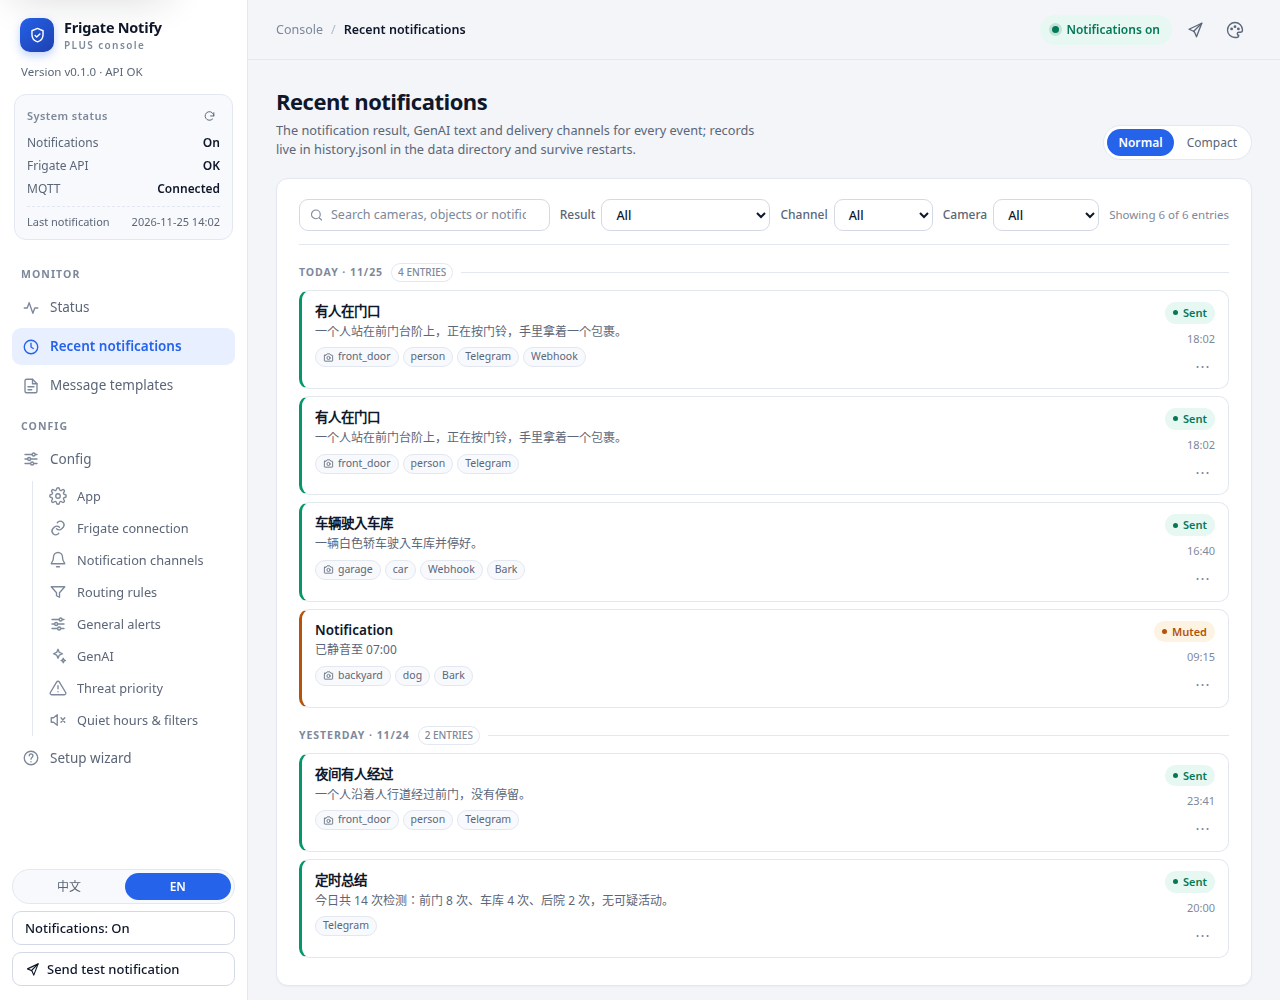
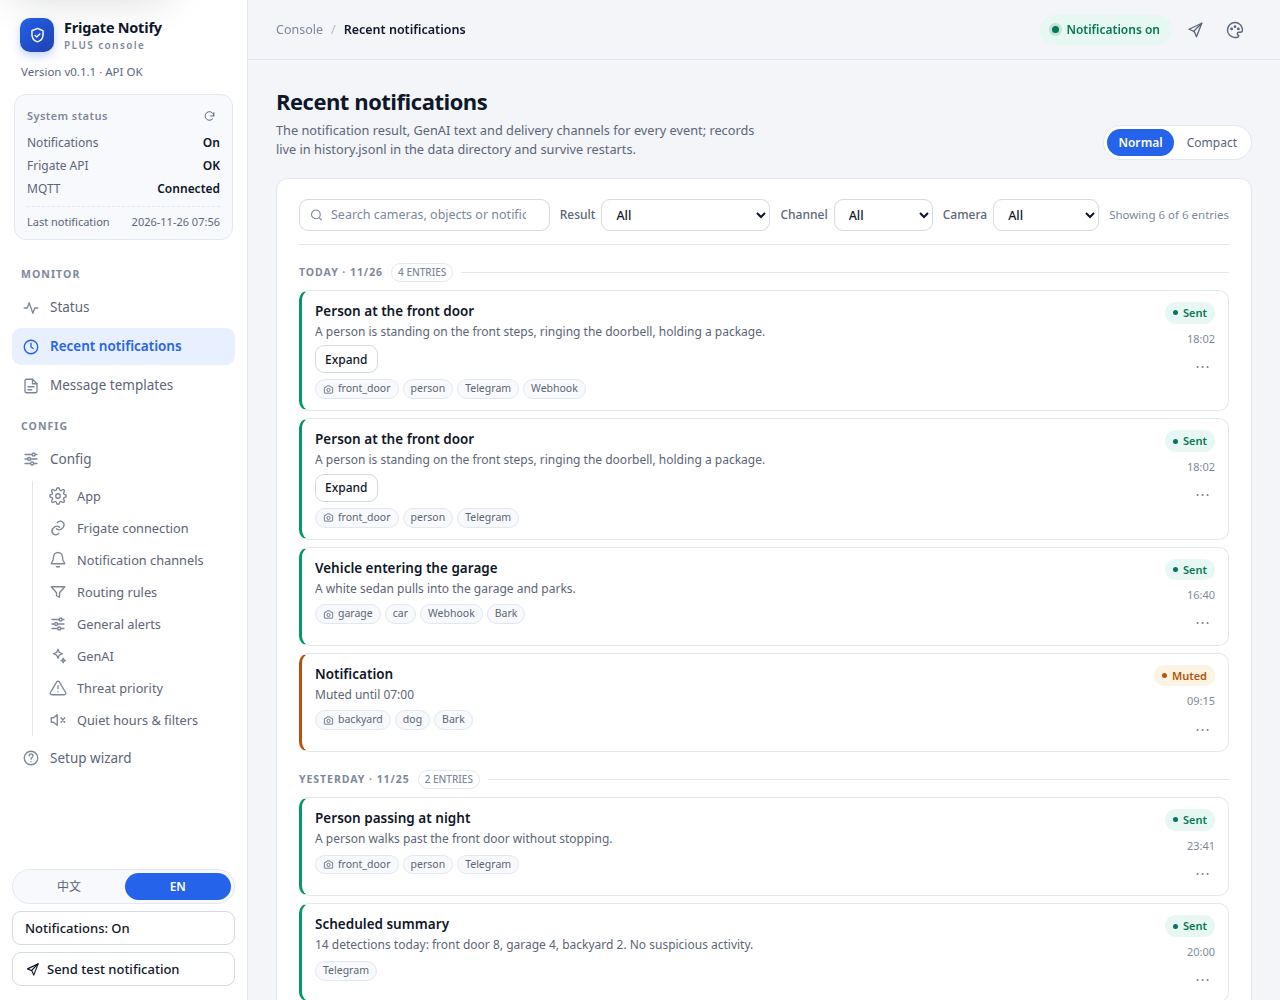
fix: history badge recognizes English detail strings
Extend histResultOf/histClass to also match English detail words
(muted / cooled down / cooldown / filtered) alongside the existing
Chinese ones, and re-shoot the English README history screenshot
with all-English demo entries (muted entry now badges correctly).

diff --git a/webui/index.html b/webui/index.html
@@ -1753,9 +1753,10 @@ async function loadStatus(){
 }
 function histClass(h){
   const d = String(h.detail||'');
+  const dl = d.toLowerCase();
   if(h.ok) return 'sent';
-  if(d.indexOf('已静音')!==-1 || d.indexOf('冷却')!==-1) return 'cooled';
-  if(d.indexOf('过滤')!==-1) return 'filtered';
+  if(d.indexOf('已静音')!==-1 || d.indexOf('冷却')!==-1 || dl.indexOf('muted')!==-1 || dl.indexOf('cooled down')!==-1 || dl.indexOf('cooldown')!==-1) return 'cooled';
+  if(d.indexOf('过滤')!==-1 || dl.indexOf('filtered')!==-1) return 'filtered';
   return 'failed';
 }
 function deliveryStripHtml(hist, provider){
@@ -1887,8 +1888,9 @@ async function loadHistory(){
 function histResultOf(h){
   if(h.ok) return {cls:'sent', label:t('hist.sent')};
   const d = String(h.detail||'');
-  if(d.indexOf('已静音')!==-1 || d.indexOf('冷却')!==-1) return {cls:'muted', label:t('hist.muted')};
-  if(d.indexOf('过滤')!==-1) return {cls:'filtered', label:t('hist.filtered')};
+  const dl = d.toLowerCase();
+  if(d.indexOf('已静音')!==-1 || d.indexOf('冷却')!==-1 || dl.indexOf('muted')!==-1 || dl.indexOf('cooled down')!==-1 || dl.indexOf('cooldown')!==-1) return {cls:'muted', label:t('hist.muted')};
+  if(d.indexOf('过滤')!==-1 || dl.indexOf('filtered')!==-1) return {cls:'filtered', label:t('hist.filtered')};
   return {cls:'failed', label:t('hist.failed')};
 }
 function histPillCls(cls){
